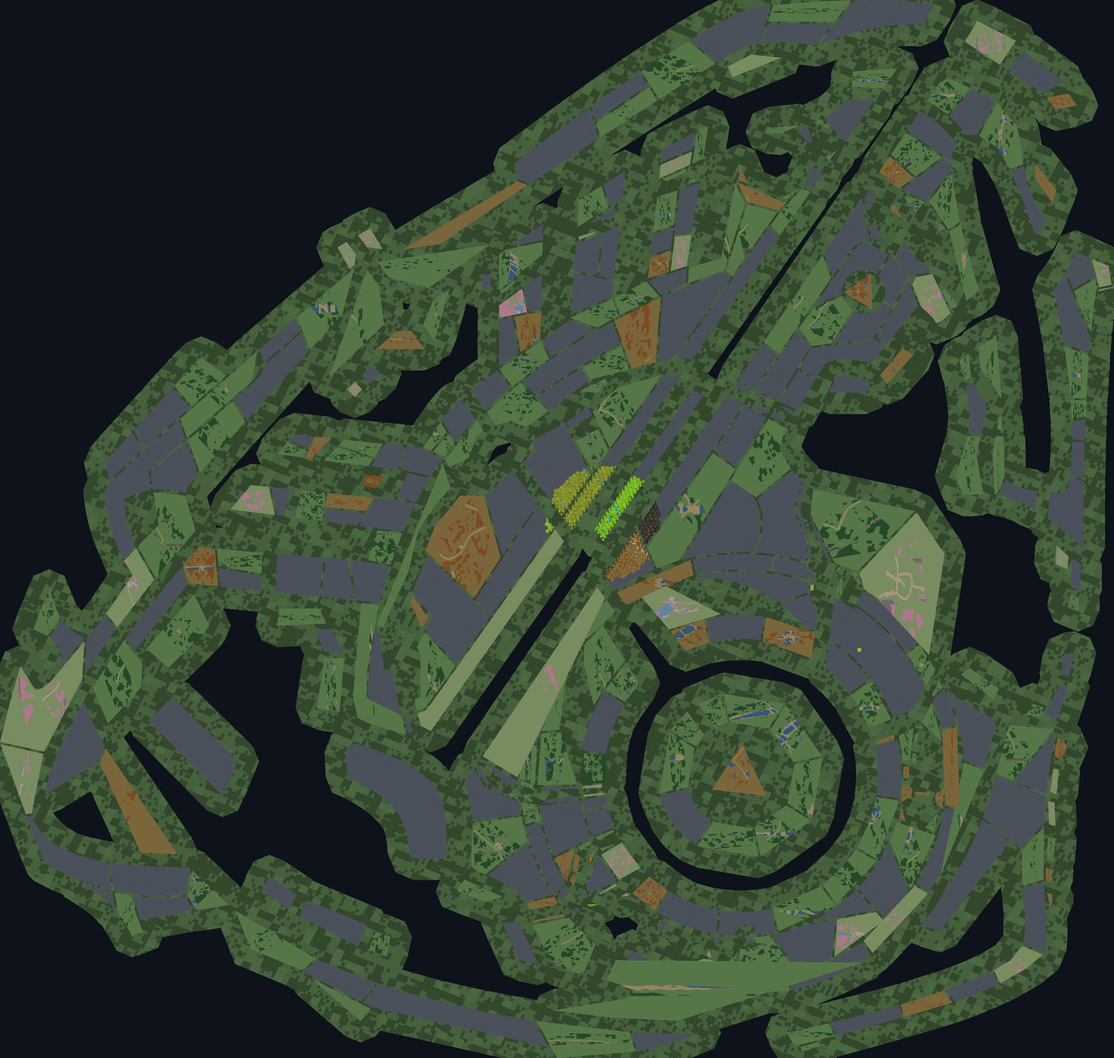
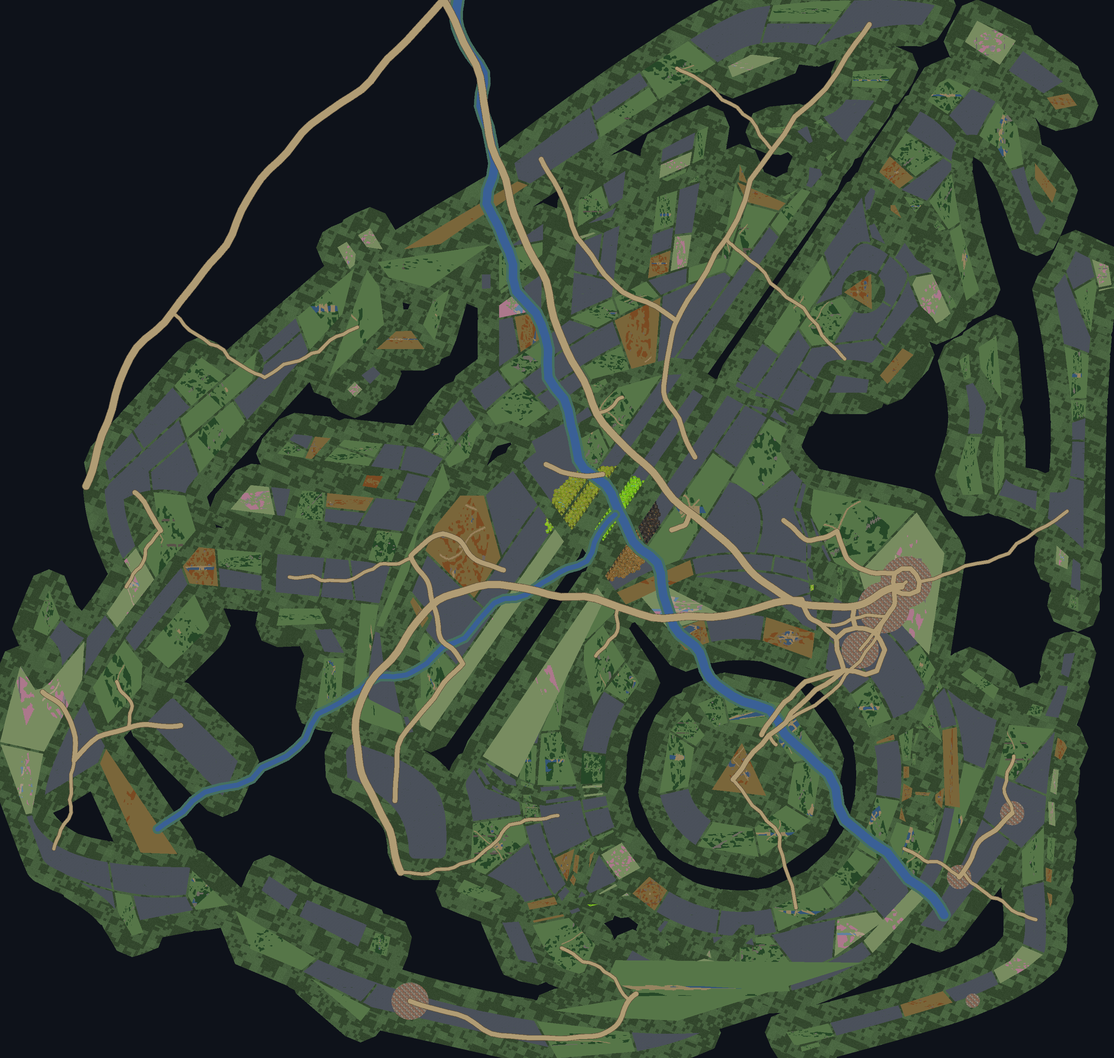
mosaic: bake the aerial macro network — rivers, roads, settlements (Phase 1b)
Owner: the world map should look like an aerial view from a plane, a full
real world. The authored feature field (rivers, tiered roads, castles,
capital POIs) is now rasterised INTO the mosaic instead of living only as a
thin dashed client overlay:
- rivers flow as banked water at honest width (naval-ready, continuous)
- roads paint tiered with dark casing + pale fill (aerial-road read),
  threading city to city to river; topology already hubs on capitals
- castle/capital/town POIs get a warm rooftop settlement footprint (radius
  by kind), a town patch not a whole board (canon 22)
Verified on EDU at three scales (capital, region, full continent). Committed
EDU.png + EDU.planner.png carry the network; other zones bake it live.

diff --git a/map-service/maps/mosaic.js b/map-service/maps/mosaic.js
@@ -13,7 +13,7 @@
 import { readFileSync, existsSync, writeFileSync, mkdirSync, statSync, readdirSync } from "node:fs";
 import path from "node:path";
 import { fileURLToPath } from "node:url";
-import { svgPathToPolygon, dataRoot, zoneBiomeFamily, worldParcel } from "./worldfield.js";
+import { svgPathToPolygon, dataRoot, zoneBiomeFamily, worldParcel, loadWorldField } from "./worldfield.js";
 import { encodePNG } from "./png.js";
 import { decodePNG } from "./png-decode.js";
 import { generate } from "./generate.js";
@@ -86,6 +86,81 @@ function wildernessFn(LC) {
   };
 }
 
+// ── AERIAL MACRO NETWORK (owner 2026-08-27: "look like an aerial map from a plane… a full real
+// world at this stage"). The authored feature field (data/world-terrain/<ZONE>.json — rivers, roads
+// tiered highway/secondary/local, castles, capital POIs) is BAKED INTO the aerial image so the
+// continent reads as a settled world seen from above: rivers flow as real water, the road network
+// threads city→city→river, and capitals/castles read as built-up settlement footprints. Previously
+// these lived ONLY as a thin dashed client overlay (drawFeatures) that most viewers never turned on.
+// Road topology is already a capital-hub network (measured: every castle/capital abuts a road
+// endpoint — "all roads lead to Rome"); this step just makes it VISIBLE on the aerial surface.
+const RIVER_RGB = [58, 96, 150], RIVER_BANK = [70, 112, 96], MAGMA_RGB = [214, 96, 34];
+const ROAD_FILL = [176, 156, 116], ROAD_CASE = [96, 82, 60];      // pale path + dark casing = aerial road
+const URBAN = [150, 140, 126];                                     // rooftops/streets, warm grey
+// settlement footprint radius (zone-units) by fortification kind — a TOWN patch, never a whole board
+// (canon 22: a castle is a POI marker on a terrain estate, not a 100-parcel sprawl).
+const SETTLE_R = { PALACE: 3.6, GRAND_ACADEMY: 3.6, CASTLE: 2.6, KEEP: 1.7, MANOR: 1.4, GATE: 1.0, PORT: 2.8, TOWN: 2.2 };
+// stamp a filled disc (radius px) at canvas (cx,cy) using colour-fn cf(x,y) → the aerial features draw
+// as rounded continuous strokes (walk each polyline segment stamping discs at sub-pixel steps).
+function discStamp(px, W, H, cx, cy, rad, cf) {
+  const r = Math.max(0.5, rad), x0 = Math.max(0, (cx - r) | 0), x1 = Math.min(W - 1, (cx + r + 1) | 0);
+  const y0 = Math.max(0, (cy - r) | 0), y1 = Math.min(H - 1, (cy + r + 1) | 0), r2 = r * r;
+  for (let y = y0; y <= y1; y++) for (let x = x0; x <= x1; x++) {
+    const dx = x - cx, dy = y - cy; if (dx * dx + dy * dy > r2) continue;
+    const c = cf(x, y); if (!c) continue; const i = (y * W + x) * 4; px[i] = c[0]; px[i + 1] = c[1]; px[i + 2] = c[2]; px[i + 3] = 255;
+  }
+}
+function strokePoly(px, W, H, pts, toCanvas, radPx, cf) {
+  if (!pts || pts.length < 2) return;
+  for (let s = 0; s < pts.length - 1; s++) {
+    const [ax, ay] = toCanvas(pts[s][0], pts[s][1]), [bx, by] = toCanvas(pts[s + 1][0], pts[s + 1][1]);
+    const len = Math.hypot(bx - ax, by - ay), steps = Math.max(1, Math.ceil(len / Math.max(0.6, radPx * 0.5)));
+    for (let k = 0; k <= steps; k++) { const t = k / steps; discStamp(px, W, H, ax + (bx - ax) * t, ay + (by - ay) * t, radPx, cf); }
+  }
+}
+// Bake the macro network onto an already-painted terrain buffer. Order = settlements (under) →
+// rivers (water, bridged by roads) → road casings → road fills (on top) so roads cross water/cities.
+export function bakeFeatures(px, W, H, toCanvas, PPU, zone) {
+  let field; try { field = loadWorldField(zone); } catch { return { rivers: 0, roads: 0, settles: 0 }; }
+  if (!field) return { rivers: 0, roads: 0, settles: 0 };
+  const solid = (c) => () => c;
+  // 1) settlement footprints — a textured urban patch around each castle/capital/town POI: blocks of
+  // warm rooftops (terracotta/tile/slate) cut by a faint street grid, so a town READS as built-up from
+  // the air rather than a bald grey disc. Deterministic per-pixel (no RNG in the bake).
+  let settles = 0;
+  const ROOF = [[150, 96, 74], [132, 116, 100], [150, 140, 126], [120, 104, 92]];   // tile / thatch / slate / mud
+  const urbanFn = (bx, by) => (x, y) => {
+    const street = ((x % 7) < 1 || (y % 8) < 1);                                     // orthogonal lanes
+    if (street) return [104, 94, 82];
+    const blk = ROOF[((((x / 4) | 0) * 3 + ((y / 4) | 0) * 5) >>> 0) % ROOF.length]; // 4px roof blocks
+    const h = (((x * 12289) ^ (y * 24593)) >>> 0) % 13 - 6;
+    return [Math.max(40, blk[0] + h), Math.max(40, blk[1] + h), Math.max(40, blk[2] + h)];
+  };
+  for (const place of [...(field.castles || []), ...(field.pois || [])]) {
+    if (!Array.isArray(place.at)) continue;
+    const R = (SETTLE_R[place.kind] || SETTLE_R.TOWN) * PPU, [cx, cy] = toCanvas(place.at[0], place.at[1]);
+    discStamp(px, W, H, cx, cy, R, urbanFn(cx, cy)); settles++;
+  }
+  // 2) rivers — real flowing water at honest width (naval-ready). Bank tint first, then water core.
+  let rivers = 0;
+  for (const r of field.rivers || []) {
+    if (r.fill) continue;                                       // lakes/calderas are baked as parcel water, not a line
+    const wu = Math.max(0.6, r.width || 1), wpx = wu * PPU * 0.5, water = r.magma ? MAGMA_RGB : RIVER_RGB;
+    strokePoly(px, W, H, r.pts, toCanvas, wpx + PPU * 0.35, solid(r.magma ? [150, 66, 26] : RIVER_BANK));
+    strokePoly(px, W, H, r.pts, toCanvas, wpx, solid(water)); rivers++;
+  }
+  // 3) roads — tiered widths, dark casing under a pale fill (the classic aerial-road read).
+  const RAD = { highway: 0.5, secondary: 0.33, local: 0.22 };
+  let roads = 0;
+  for (const rd of field.roads || []) {
+    const wpx = (RAD[rd.tier] || RAD.highway) * PPU; strokePoly(px, W, H, rd.pts, toCanvas, wpx + 1.4, solid(ROAD_CASE));
+  }
+  for (const rd of field.roads || []) {
+    const wpx = (RAD[rd.tier] || RAD.highway) * PPU; strokePoly(px, W, H, rd.pts, toCanvas, wpx, solid(ROAD_FILL)); roads++;
+  }
+  return { rivers, roads, settles };
+}
+
 const _thumbCache = new Map();
 function loadThumb(id) {
   if (_thumbCache.has(id)) return _thumbCache.get(id);
@@ -156,7 +231,7 @@ export function bakeMosaic({ zone = "EDU", ppu = 20, maxdim = 4096, force = fals
   // No thumbs on this host (e.g. the live box) → serve the committed baked mosaic if we shipped one.
   if (!force && nThumbs === 0) { const c = committedMosaic(zone, mode); if (c) return { png: c.png, meta: c.meta, cached: true, committed: true }; }
   let fillN = 0;
-  const cacheStem = path.join(CACHEDIR(), `${zone}.${mode}.p${ppu}.m${maxdim}.f${fillRadius}.${fp}`);
+  const cacheStem = path.join(CACHEDIR(), `${zone}.${mode}.p${ppu}.m${maxdim}.f${fillRadius}.aerial2.${fp}`);
   if (!force && existsSync(`${cacheStem}.png`) && existsSync(`${cacheStem}.json`)) {
     return { png: readFileSync(`${cacheStem}.png`), meta: JSON.parse(readFileSync(`${cacheStem}.json`, "utf8")), cached: true };
   }
@@ -248,8 +323,12 @@ export function bakeMosaic({ zone = "EDU", ppu = 20, maxdim = 4096, force = fals
     fillN = filled;
   }
 
+  // AERIAL MACRO NETWORK — bake rivers/roads/settlements on top so the continent reads as a settled
+  // world seen from a plane (owner 2026-08-27). Last, so features sit above terrain + wilderness fill.
+  const feat = bakeFeatures(px, W, H, toCanvas, PPU, zone);
+
   const png = encodePNG(W, H, Buffer.from(px));
-  const meta = { zone, mode, world: { minX, minY, maxX, maxY }, flipY: false, pxPerUnit: PPU, w: W, h: H, leaves: ok, thumbed: hasThumb, estates: estateN, grey: greyN, fill: fillN, fingerprint: fp };
+  const meta = { zone, mode, world: { minX, minY, maxX, maxY }, flipY: false, pxPerUnit: PPU, w: W, h: H, leaves: ok, thumbed: hasThumb, estates: estateN, grey: greyN, fill: fillN, features: feat, fingerprint: fp };
   try { mkdirSync(CACHEDIR(), { recursive: true }); writeFileSync(`${cacheStem}.png`, png); writeFileSync(`${cacheStem}.json`, JSON.stringify(meta)); } catch { /* cache best-effort */ }
   return { png, meta, cached: false };
 }

diff --git a/docs/maps/WORLD-CONTINUITY-AND-ROADS.md b/docs/maps/WORLD-CONTINUITY-AND-ROADS.md
@@ -25,6 +25,40 @@ gaps + road corridors fill but the outer frontier / ocean stays dark) with seede
 road/river network (feature overlay) threads over it. "It's OK to still have clusters of trees or
 roads yet to be built" (owner) — the wilderness fill IS that unclaimed land.
 
+## 1b. Aerial macro network BAKED INTO the mosaic (DONE 2026-08-27 — the "view from a plane")
+
+Owner 2026-08-27: *"we want it looking like an aerial map (looking down from a plane), see as much
+detail as possible… the end result should look like a full real world at this stage."* The authored
+feature field (`data/world-terrain/<ZONE>.json` — rivers, tiered roads, castles, capital POIs) is now
+**rasterised INTO the aerial mosaic** (`mosaic.js` `bakeFeatures`), not just drawn as the thin dashed
+client overlay (`drawFeatures`) that most viewers never enabled. So the baked continent reads as a
+settled world seen from above:
+- **Rivers** flow as real water at honest width (`river.width`), banked — naval-ready, continuous
+  across the whole surface (belt-and-braces with the per-parcel `waterDominant` water).
+- **Roads** paint tiered (highway/secondary/local) with a dark casing under a pale fill — the classic
+  aerial-road read — threading city→city→river. Topology is already a capital hub: **measured, every
+  castle + the capital abuts a road endpoint** ("all roads lead to Rome"); baking just makes it visible.
+- **Settlements** — each castle / capital / town POI gets a textured **urban footprint** (warm rooftop
+  blocks cut by a faint street grid), radius by fortification kind (`SETTLE_R`: PALACE/capital 3.6u …
+  GATE 1.0u). A TOWN patch, **never a whole board** (canon 22: a castle is a POI on a terrain estate).
+
+Verified by rendering EDU at three scales (capital close-up, region, full continent) — roads converge
+on the terracotta capital cluster, the Arcadia Flow + West Tributary run blue through it. Committed
+`EDU.png` + `EDU.planner.png` carry the aerial network; other zones bake it live on first view
+(deploy ships the code). **Coordinate frame:** feature coords share the parcel zone-unit space, mapped
+by the mosaic's `toCanvas` — same frame `drawFeatures` uses, so the baked layer and any client overlay
+register exactly.
+
+**Still open toward the full-world look (owner 2026-08-27):**
+- **Roads FROM the castles outward** — the field already hubs on capitals; extend the generator to
+  emit connector roads capital→river-crossing + capital→town where authored roads are sparse, using
+  real city-formation grammar (fords/bridges at rivers, ridgeline avoidance, market-square radials).
+- **Dynamic real-time aerial layer** — the map should update ~hourly and show world STATE: a besieged
+  or burning parcel blazes, a battle smokes, a freshly-taken town changes hands. This is an OVERLAY
+  driven by live sim state (siege/fire/battle flags), composited over the static aerial base — a
+  separate real-time channel, not a re-bake. Scoped next.
+- Extend the committed aerial bake to every launch zone (currently EDU; others lazy).
+
 ## 2. Road continuity (PHASE 2 — parcel-to-parcel links)
 
 Roads currently stretch WITHIN a parcel (seeded per-parcel) and don't connect to neighbours — reads
@@ -67,9 +101,12 @@ upgrades later.
 
 ## Phase order & status
 - [x] Land tessellation confirmed (no redo) · water-dominant rivers/oceans.
-- [ ] **Phase 1** — continuous between-parcel wilderness fill (mosaic bake + land mask).
-- [ ] **Phase 2** — per-parcel side-road continuity (attach to edgeCrossings) + roads-to-castle.
+- [x] **Phase 1** — continuous between-parcel wilderness fill (mosaic bake + land mask).
+- [x] **Phase 1b** — aerial macro network (rivers/roads/settlements) baked INTO the mosaic (EDU).
+- [ ] **Phase 2** — per-parcel side-road continuity (attach to edgeCrossings) + generated
+  capital→river / capital→town connector roads; roll the aerial bake to every launch zone.
 - [ ] **Phase 3** — per-zone era road/city grammar, zone by zone, references first.
+- [ ] **Phase 4** — dynamic real-time aerial overlay (siege/fire/battle state, ~hourly refresh).
 
 ## 5. Polygon vs thumbnail vs playable map — the shape mismatch (owner 2026-08-27)
 
